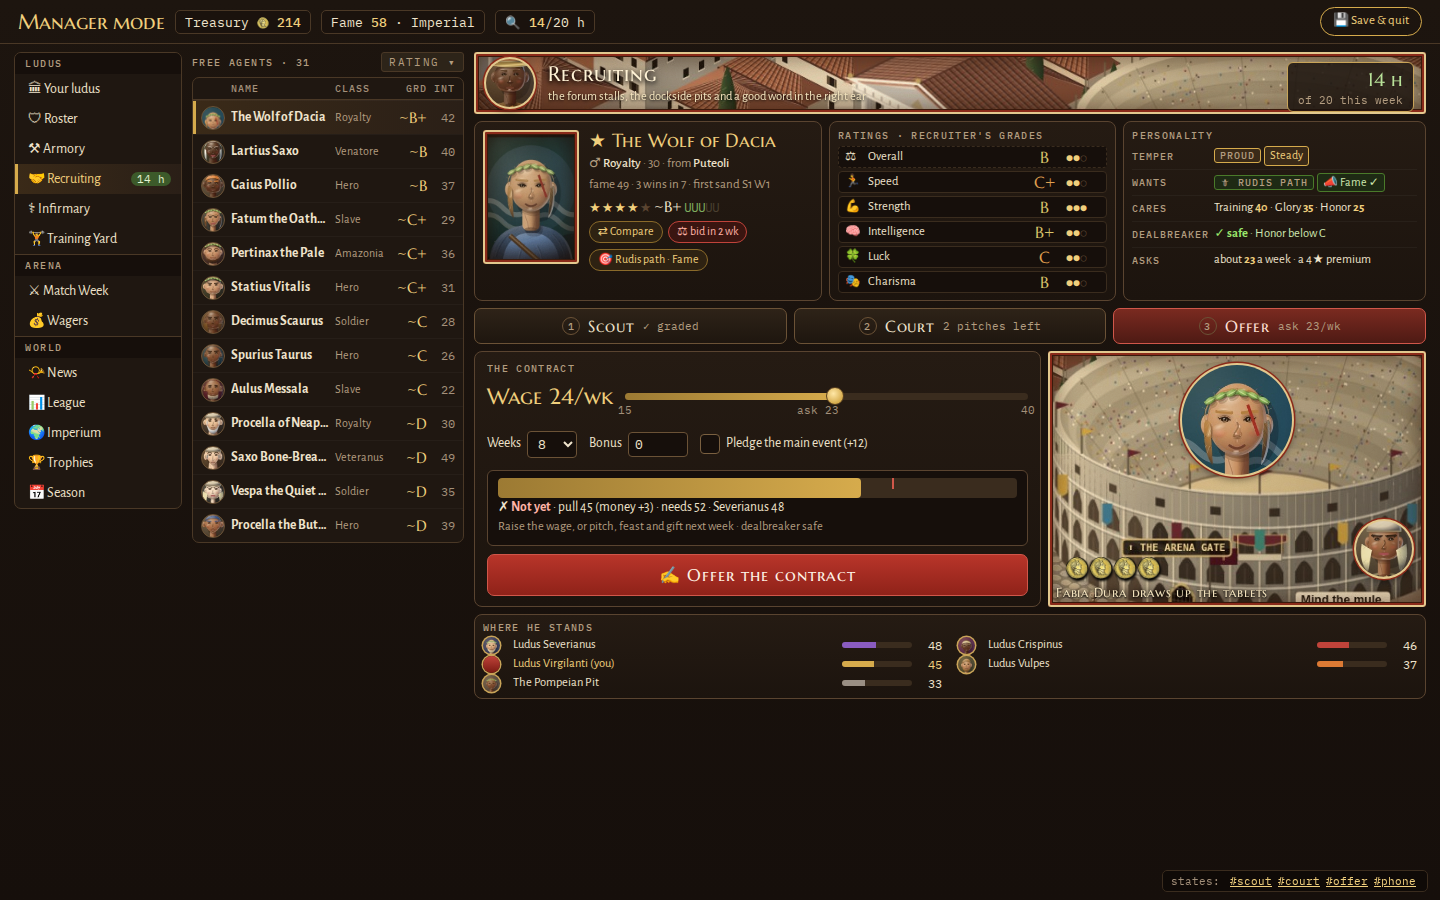
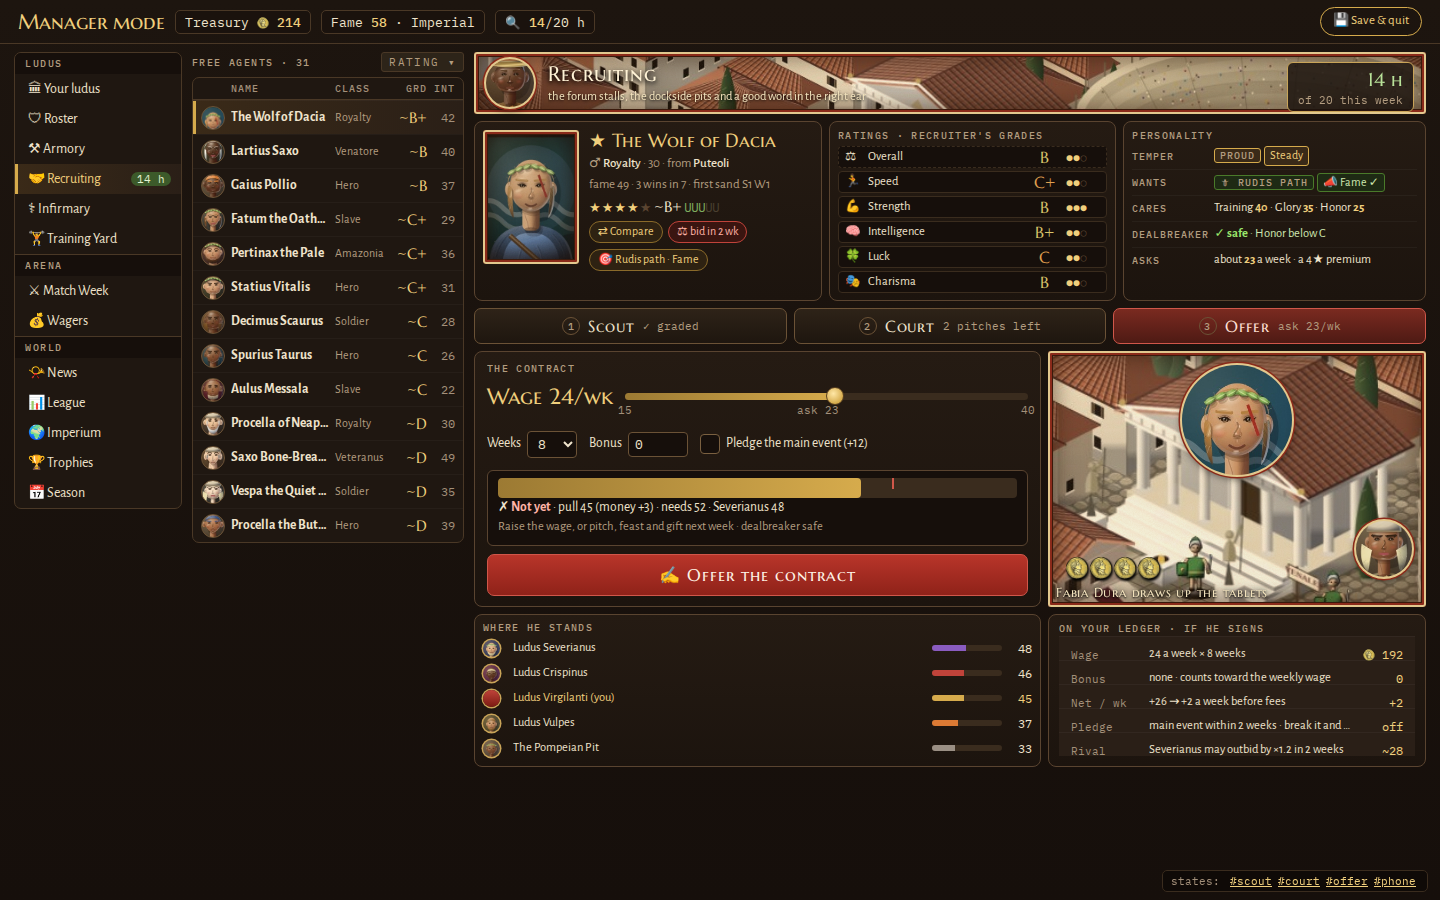
mock100: round 3 WIP [skip ci]
Claude-Session: https://claude.ai/code/session_01BLtNGuDrMd265uhsDUPs5S

Changed region(s): [[0.5625, 0.3733, 1.0, 0.84], [0.3125, 0.7156, 0.4375, 0.84]]

diff --git a/tools/plans/mock100/recruit3.html b/tools/plans/mock100/recruit3.html
@@ -139,7 +139,8 @@ body.s-scout .pane.scout,body.s-court .pane.court,body.s-offer .pane.offer{displ
 .su{display:grid;grid-template-columns:24px minmax(0,1fr) 70px 24px;gap:6px;align-items:center;height:18px;font-size:12.5px;margin-top:1px}
 .su .rd{width:17px;height:17px;box-shadow:0 0 0 1.5px #c9a458}
 .su .bar{height:6px;border-radius:3px;background:#3a2c1e;overflow:hidden}.su .bar i{display:block;height:100%}
-.su .v{font:11.5px var(--mono);text-align:right}.su.me{color:var(--gold2)}
+.su .v{font:11.5px var(--mono);text-align:right}
+#suit2 .su{height:24px}.su.me{color:var(--gold2)}
 .need{font-size:11.5px;color:var(--muted);height:16px;margin-top:2px}.need b{color:var(--gold2)}
 .notes{background:linear-gradient(90deg,#c9b083,var(--parch) 6%,var(--parch) 94%,#c9b083);color:#3a2616;border-color:#8a6a3a}
 .notes .ph{color:#6b4a22}
@@ -167,8 +168,8 @@ body.s-scout .pane.scout,body.s-court .pane.court,body.s-offer .pane.offer{displ
 .verdict div,.verdict p{white-space:nowrap;overflow:hidden;text-overflow:ellipsis;font-size:13.5px;margin:0;height:20px}.verdict p{color:var(--muted);font-size:12.5px}
 .verdict b{color:#ffb3a6}
 .obtn{margin-top:8px;width:100%;height:42px;border-radius:7px;border:1px solid #d0574a;background:linear-gradient(#b8352a,#8f2219);color:#fff3e6;font:400 17px var(--display);letter-spacing:.06em}
-.sign{height:100%;min-height:200px}
-.sign .pic{background:url(img3/m_colos.jpg) center/cover}
+.sign{height:100%;min-height:240px}
+.sign .pic{background:url(img3/m_temple.jpg) center 40%/cover}
 .sign .rd.big{position:absolute;z-index:5;left:50%;top:14px;transform:translateX(-50%);width:110px;height:110px;background-image:url(img3/r3_rec.png)}
 .sign .rd.cl{position:absolute;z-index:5;right:14px;bottom:30px;width:56px;height:56px;background-image:url(img3/r3_c_clerk.png)}
 .sign .coins{position:absolute;z-index:5;left:18px;bottom:28px;display:flex;gap:2px}.sign .coins i{width:22px;height:22px;background:url(../../../assets/coin.webp) center/contain no-repeat;filter:drop-shadow(1px 2px 1px #000)}
@@ -278,7 +279,15 @@ body.ph .sign{min-height:170px}
      </section>
      <div class="fr sign"><div class="pic"></div><span class="rd big"></span><span class="rd cl" title="Fabia Dura, your Clerk"></span><span class="coins"><i></i><i></i><i></i><i></i></span><span class="cap">Fabia Dura draws up the tablets</span></div>
     </div>
-    <section class="panel" style="padding:6px 8px"><div class="ph">Where he stands</div><div id="suit2"></div></section>
+    <div class="offr">
+     <section class="panel" style="padding:6px 8px"><div class="ph">Where he stands</div><div id="suit2"></div></section>
+     <section class="panel lg"><div class="ph">On your ledger · if he signs</div>
+      <div class="row"><span>Wage</span><span class="one">24 a week × 8 weeks</span><span><span class="coin"></span> 192</span></div>
+      <div class="row"><span>Bonus</span><span class="one">none · counts toward the weekly wage</span><span>0</span></div>
+      <div class="row"><span>Net / wk</span><span class="one">+26 → +2 a week before fees</span><span>+2</span></div>
+      <div class="row"><span>Pledge</span><span class="one">main event within 2 weeks · break it and Honor pays</span><span>off</span></div>
+      <div class="row"><span>Rival</span><span class="one">Severianus may outbid by ×1.2 in 2 weeks</span><span>~28</span></div></section>
+    </div>
    </div>
   </div></main>
  </div>
@@ -332,7 +341,7 @@ document.getElementById('pg').innerHTML=PITCH.map(([k,n,full,tn,g,gain,tags,proj
 document.getElementById('feastPic').outerHTML=`<div class="pic">${typeof SCENE99==='function'?SCENE99('council','tile'):''}</div>`;
 const SUIT=[['Ludus Severianus','Domitia Severa','#8a5cc0',48,'riv1'],['Ludus Crispinus','Aulus Vettius Crispus','#c0433a',46,'riv0'],['Ludus Virgilanti (you)','Virgilante','#d6ab4c',45,null],['Ludus Vulpes','Titus Murena','#dc7a34',37,'riv3'],['The Pompeian Pit','Old Proculus','#9a8f84',33,'riv2']];
 const suit=()=>SUIT.map(([h,n,c,v,f])=>`<div class="su ${f?'':'me'}" title="${h} — ${n}"><span class="rd" style="${f?`background-image:url(${IM}r3_${f}.png)`:'background:linear-gradient(#c0433a,#7a1a12)'}"></span><span class="one">${h}</span><span class="bar"><i style="width:${v}%;background:${c}"></i></span><span class="v">${v}</span></div>`).join('');
-document.getElementById('suit').innerHTML=suit();document.getElementById('suit2').innerHTML=`<div style="display:grid;grid-template-columns:repeat(2,minmax(0,1fr));column-gap:16px">${suit()}</div>`;
+document.getElementById('suit').innerHTML=suit();document.getElementById('suit2').innerHTML=`${suit()}`;
 document.getElementById('pips').innerHTML=Array.from({length:20},(_,i)=>`<i class="${i<3?'him':i<6?'u':''}"></i>`).join('');
 const LIST=[['The Wolf of Dacia','Royalty','~B+',42,'rec'],['Lartius Saxo','Venatore','~B',40],['Gaius Pollio','Hero','~B',37],['Fatum the Oathless','Slave','~C+',29],['Pertinax the Pale','Amazonia','~C+',36],['Statius Vitalis','Hero','~C+',31],['Decimus Scaurus','Soldier','~C',28],['Spurius Taurus','Hero','~C',26],['Aulus Messala','Slave','~C',22],['Procella of Neapolis','Royalty','~D',30],['Saxo Bone-Breaker','Veteranus','~D',49],['Vespa the Quiet Blade','Soldier','~D',35],['Procella the Butcher','Hero','~D',39]];
 document.getElementById('lrows').innerHTML=LIST.map(([n,c,g,iv,f],i)=>`<div class="lr ${i===0?'on':''}" title="${n} · ${c}"><span class="av" style="${f?`background-image:url(${IM}r3_${f}.png)`:`background-image:url(${IM}r3_crowd${(i*5)%14}.png)`}"></span><b class="one">${n}</b><span class="cl one">${c}</span><span class="gr">${g}</span><span class="iv">${iv}</span></div>`).join('');
